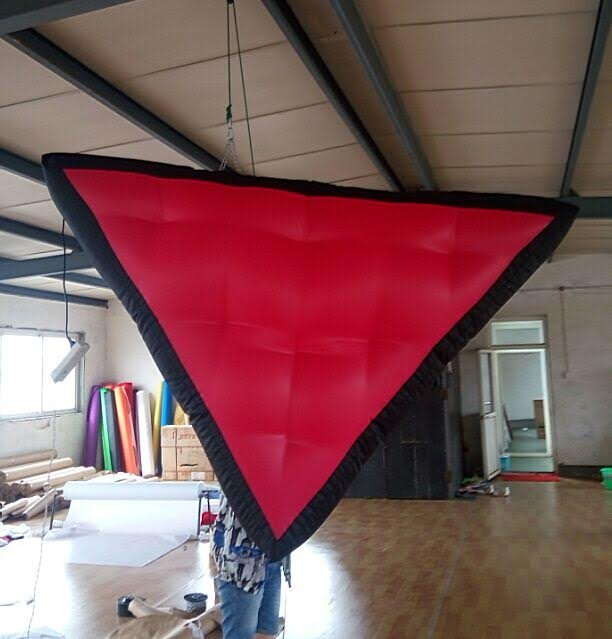
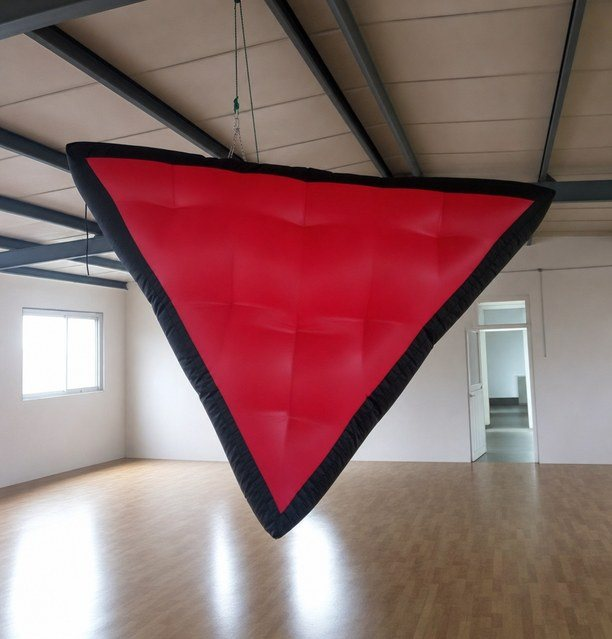
Photos retouchées par IA (ChatGPT) : ouvriers, enseignes/caractères chinois, cours d'usine et désordre effacés, décor inchangé ; 5 photos refusées par l'IA (Spider-Man, Mario, Ariel) retirées

diff --git a/assets/media.js b/assets/media.js
@@ -19,17 +19,13 @@ const MEDIA = {
    "DG_132_v2.mp4"
   ],
   "photos": [
-   "DG_132_2.jpg",
-   "DG_132_3.jpg",
-   "DG_132_4.jpg"
+   "DG_132_3.jpg"
   ]
  },
  "DG_133": {
   "photos": [
    "DG_133_2.jpg",
-   "DG_133_3.jpg",
-   "DG_133_4.jpg",
-   "DG_133_5.jpg"
+   "DG_133_3.jpg"
   ],
   "video": "DG_133.mp4"
  },
@@ -871,7 +867,6 @@ const MEDIA = {
    "DG_022_2.jpg",
    "DG_022_3.jpg",
    "DG_022_4.jpg",
-   "DG_022_5.jpg",
    "DG_022_6.jpg"
   ],
   "video": "DG_022.mp4",
